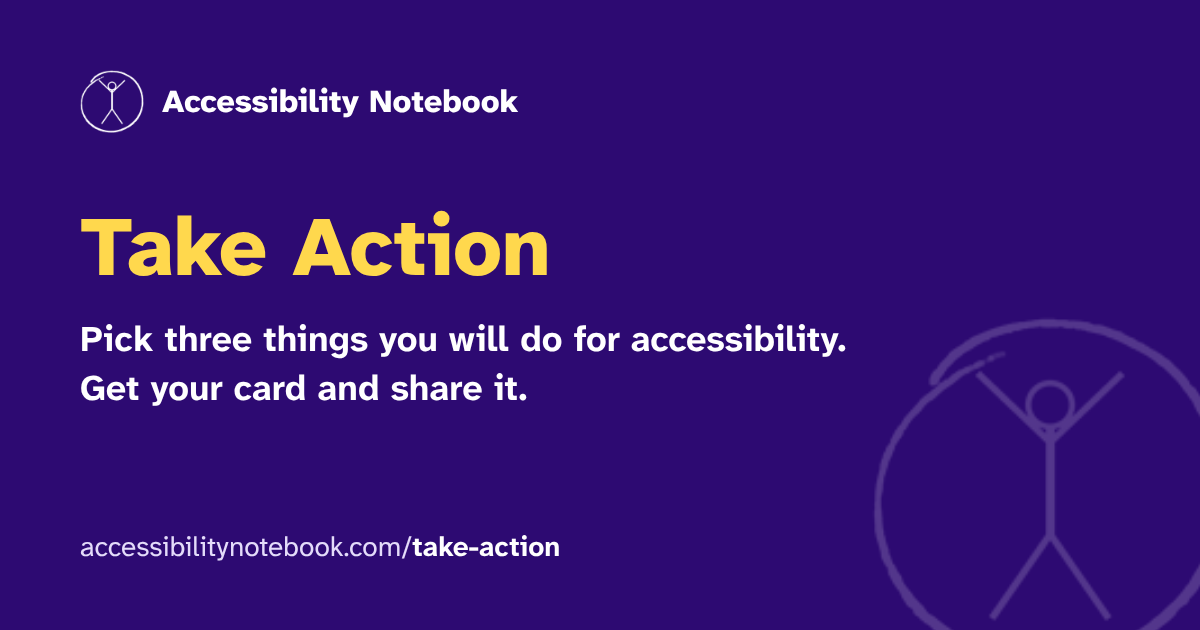
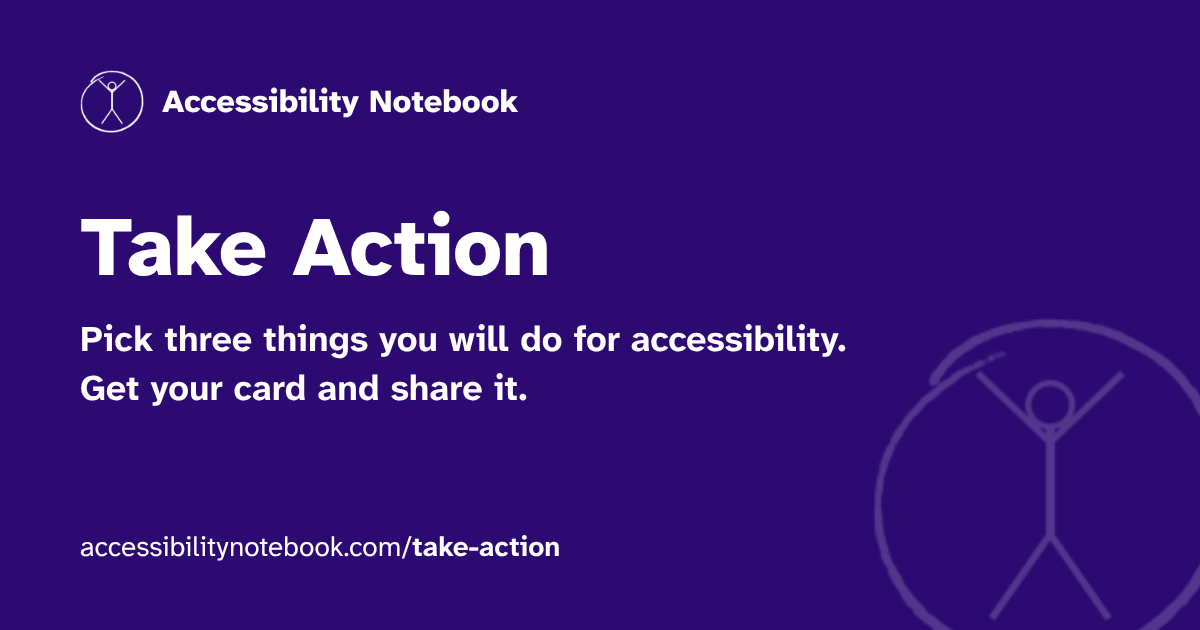
Take Action: Post and Story card formats, white text, steadier mobile preview
- Readers choose Post (1080 x 1080, LinkedIn or Instagram) or Story
  (1080 x 1920, Instagram, Facebook or WhatsApp); tips and file names follow the format
- All card text is white; social preview image title is white too
- Preview image, size and frame swap together after decoding, with a fixed
  aspect ratio, so the preview no longer jumps on phones

Claude-Session: https://claude.ai/code/session_01BZada9yrQ6mtnFRPKyXxpj

Changed region(s): [[0.0617, 0.3317, 0.4625, 0.4524], [0.0617, 0.8444, 0.3392, 0.9048]]

diff --git a/README.md b/README.md
@@ -84,7 +84,7 @@ The website of [Accessibility Notebook](https://buttondown.com/accessibility-not
 
 ## Take Action (formerly Accessibility Pledge)
 
-- `/take-action/` (menu: Take Action; `src/pages/take-action.astro`) lets readers pick up to 3 actions and download a 1080 × 1080 "My Accessibility Actions" card (`my-accessibility-actions.png`), share it (on phones) and copy its alt text. Everything happens in the browser; nothing is stored.
+- `/take-action/` (menu: Take Action; `src/pages/take-action.astro`) lets readers pick up to 3 actions and download a "My Accessibility Actions" card as a Post (1080 × 1080, LinkedIn or Instagram: `my-accessibility-actions-post.png`) or a Story (1080 × 1920, Instagram, Facebook or WhatsApp: `my-accessibility-actions-story.png`), share it (on phones) and copy its alt text. The card is drawn on a canvas; all its text is white. Everything happens in the browser; nothing is stored.
 - Pledges live in each issue's front matter, 1–2 per issue: `pledges: [{"role": "Testing", "text": "I will test every flow with a keyboard, not only with tools", "from": "inspiration-3"}]`. `from` works as in `discussion`: the "From Notes # N" link lands on that part of the issue. Roles: Design & Content, Development, Testing, Product. Text starts with "I will", about 80 characters at most, no final period. The latest issue's pledges get a "New" label.
 - The album card in Listen While Reading links to the issue's album line (`#album`).
 - Do not reword or remove a published pledge lightly: people may have shared cards with it.
